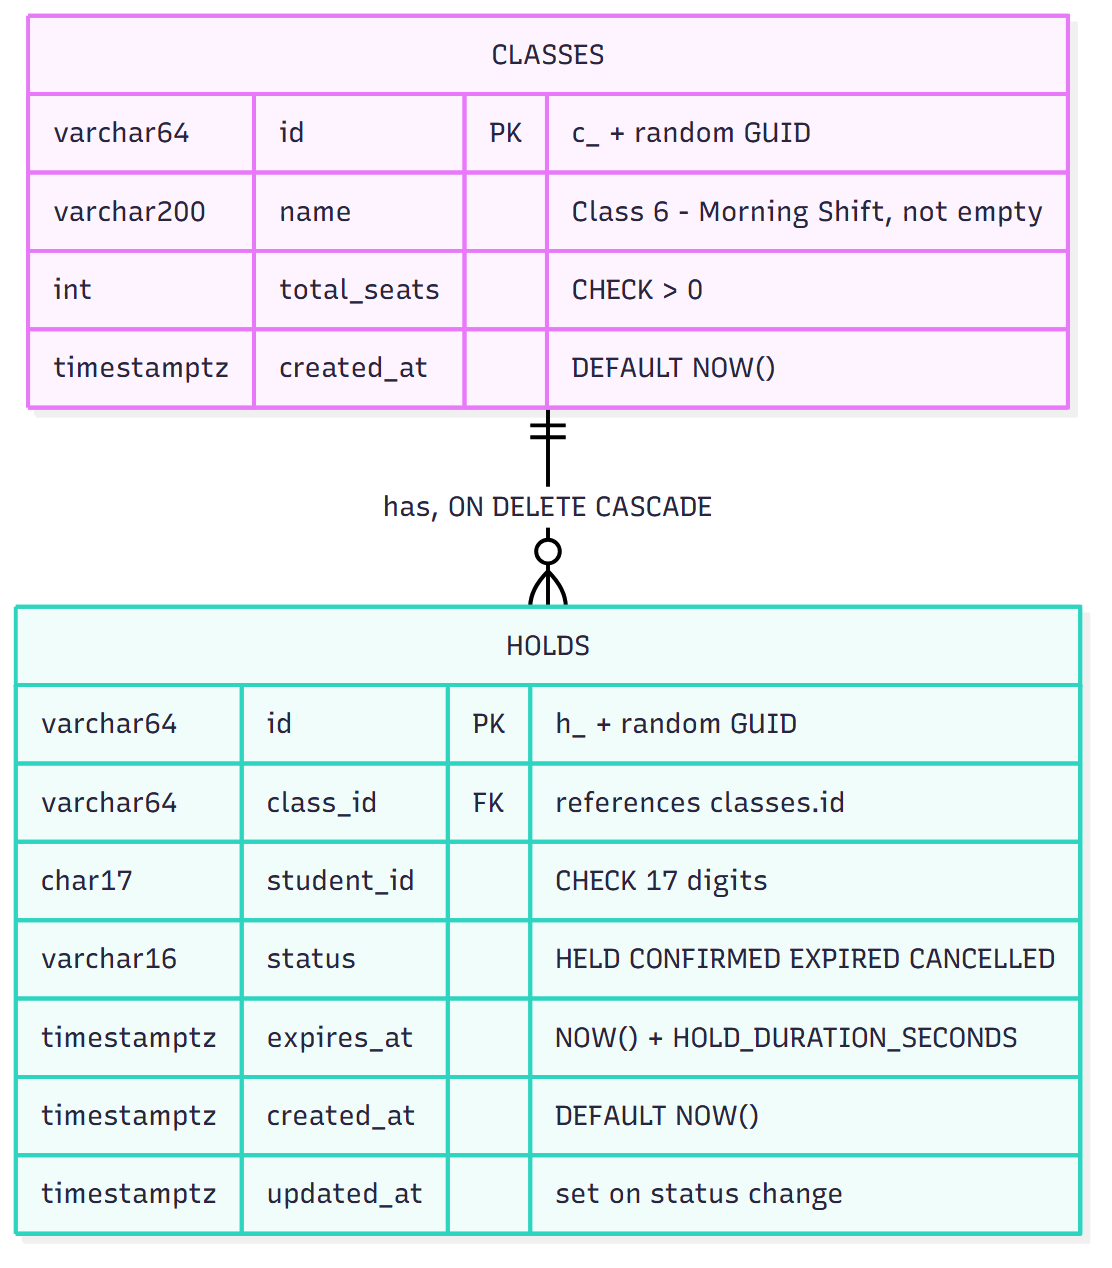
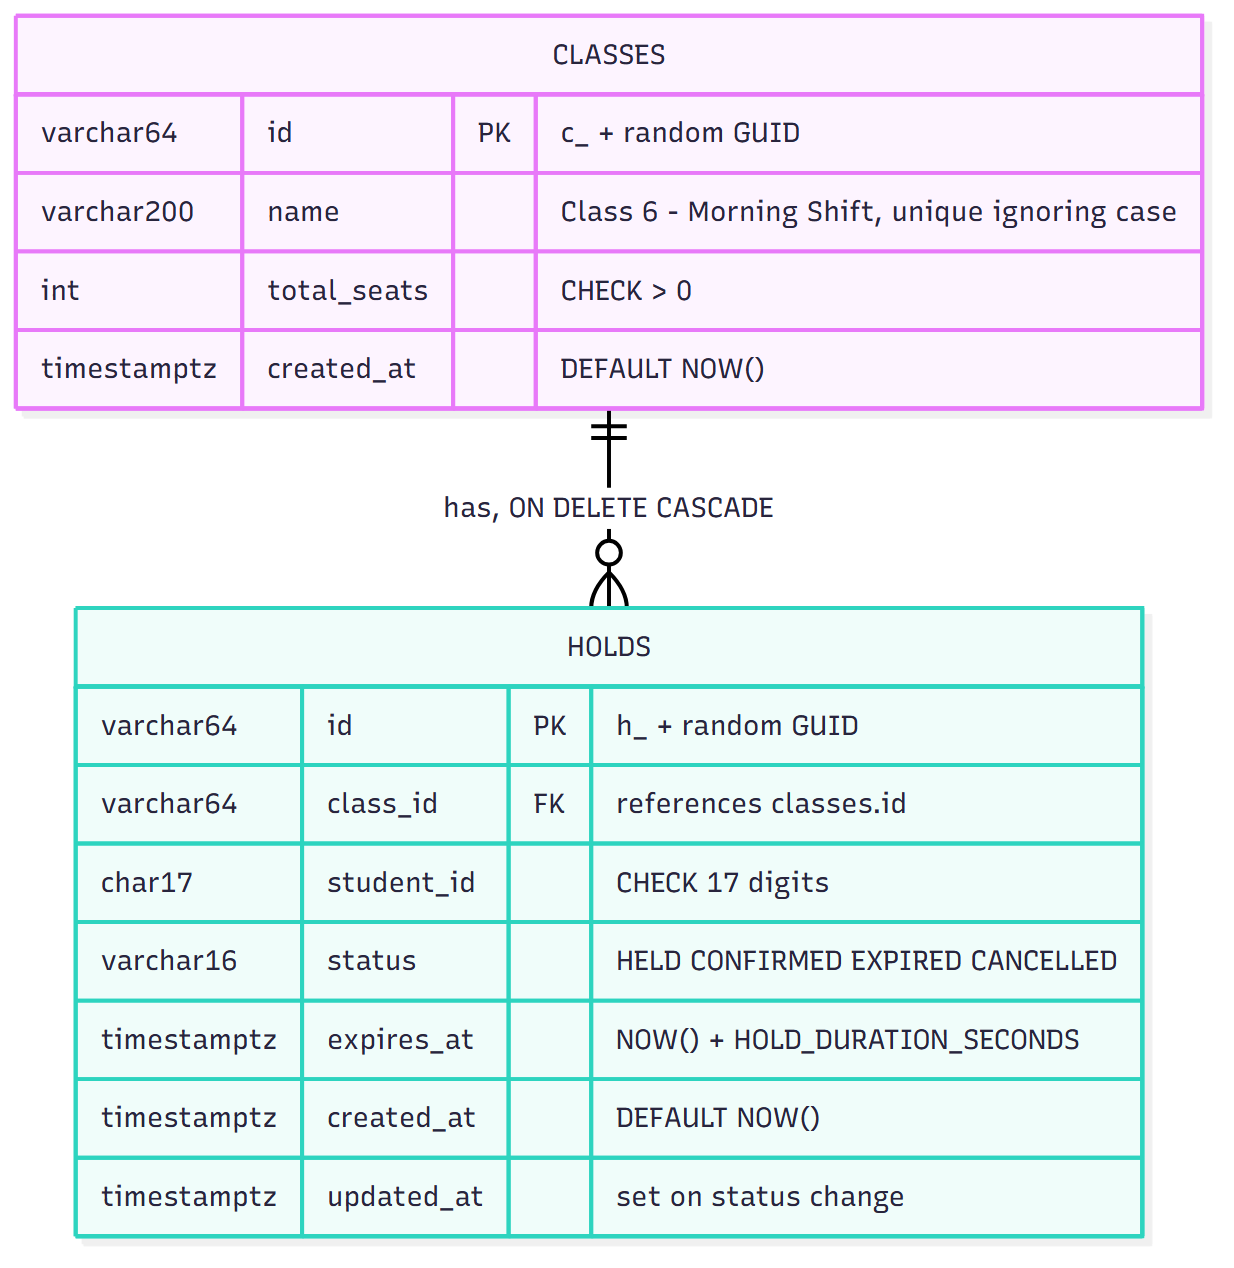
Add backend overview diagram to README
- planning/diagrams/0-Backend-overview.png: request types, row locks,
  expiry layers, sweeper, startup lock and database rules on one page.
- README: "How the backend works" section with the diagram and links to
  the detailed place-hold and confirm/cancel diagrams.
- Re-rendered diagrams 1, 4 and 5: sweeper runs every 1 s; class names
  are unique.

Changed region(s): [[0.0, 0.3691, 0.9784, 0.9842], [0.0, 0.0, 0.9784, 0.3383], [0.3363, 0.3691, 0.3669, 0.3998]]

diff --git a/README.md b/README.md
@@ -4,6 +4,16 @@ First-come, first-served seat booking for school admissions. ASP.NET Core (.NET 
 
 **Status:** feature-complete. All 8 endpoints work. The bilingual UI (Bangla by default, English switch) is at http://localhost:5173. 44 backend tests and 18 frontend tests pass in Docker, and a 15-step Playwright end-to-end check passes.
 
+## How the backend works
+
+![Backend overview](planning/diagrams/0-Backend-overview.png)
+
+- **No overbooking:** placing a hold locks the class row in PostgreSQL, so requests for one class run one at a time, even across several API processes.
+- **Instant expiry:** seat counts are calculated from live holds using the database clock, so a seat frees the moment its hold expires.
+- **Database-enforced rules:** unique indexes allow one active hold per student per class and one class per name.
+
+The full decision trees are in [place hold](planning/diagrams/2-LLD-place-hold.png) and [confirm / cancel](planning/diagrams/3-LLD-confirm-and-cancel.png).
+
 ## Run
 
 Requires only Docker with Compose v2.
@@ -85,6 +95,7 @@ The diagrams are in `planning/diagrams/`:
 
 | Diagram | Shows |
 |---|---|
+| `0-Backend-overview.png` | One-page view of the backend: request types, locks, expiry and the database |
 | `1-HLD-system-architecture.png` | Containers, ports, and how the API, sweeper and database connect |
 | `2-LLD-place-hold.png` | The place-hold transaction: class row lock, expiry flush, checks, insert |
 | `3-LLD-confirm-and-cancel.png` | Confirm and cancel: hold row lock and the order of checks |
